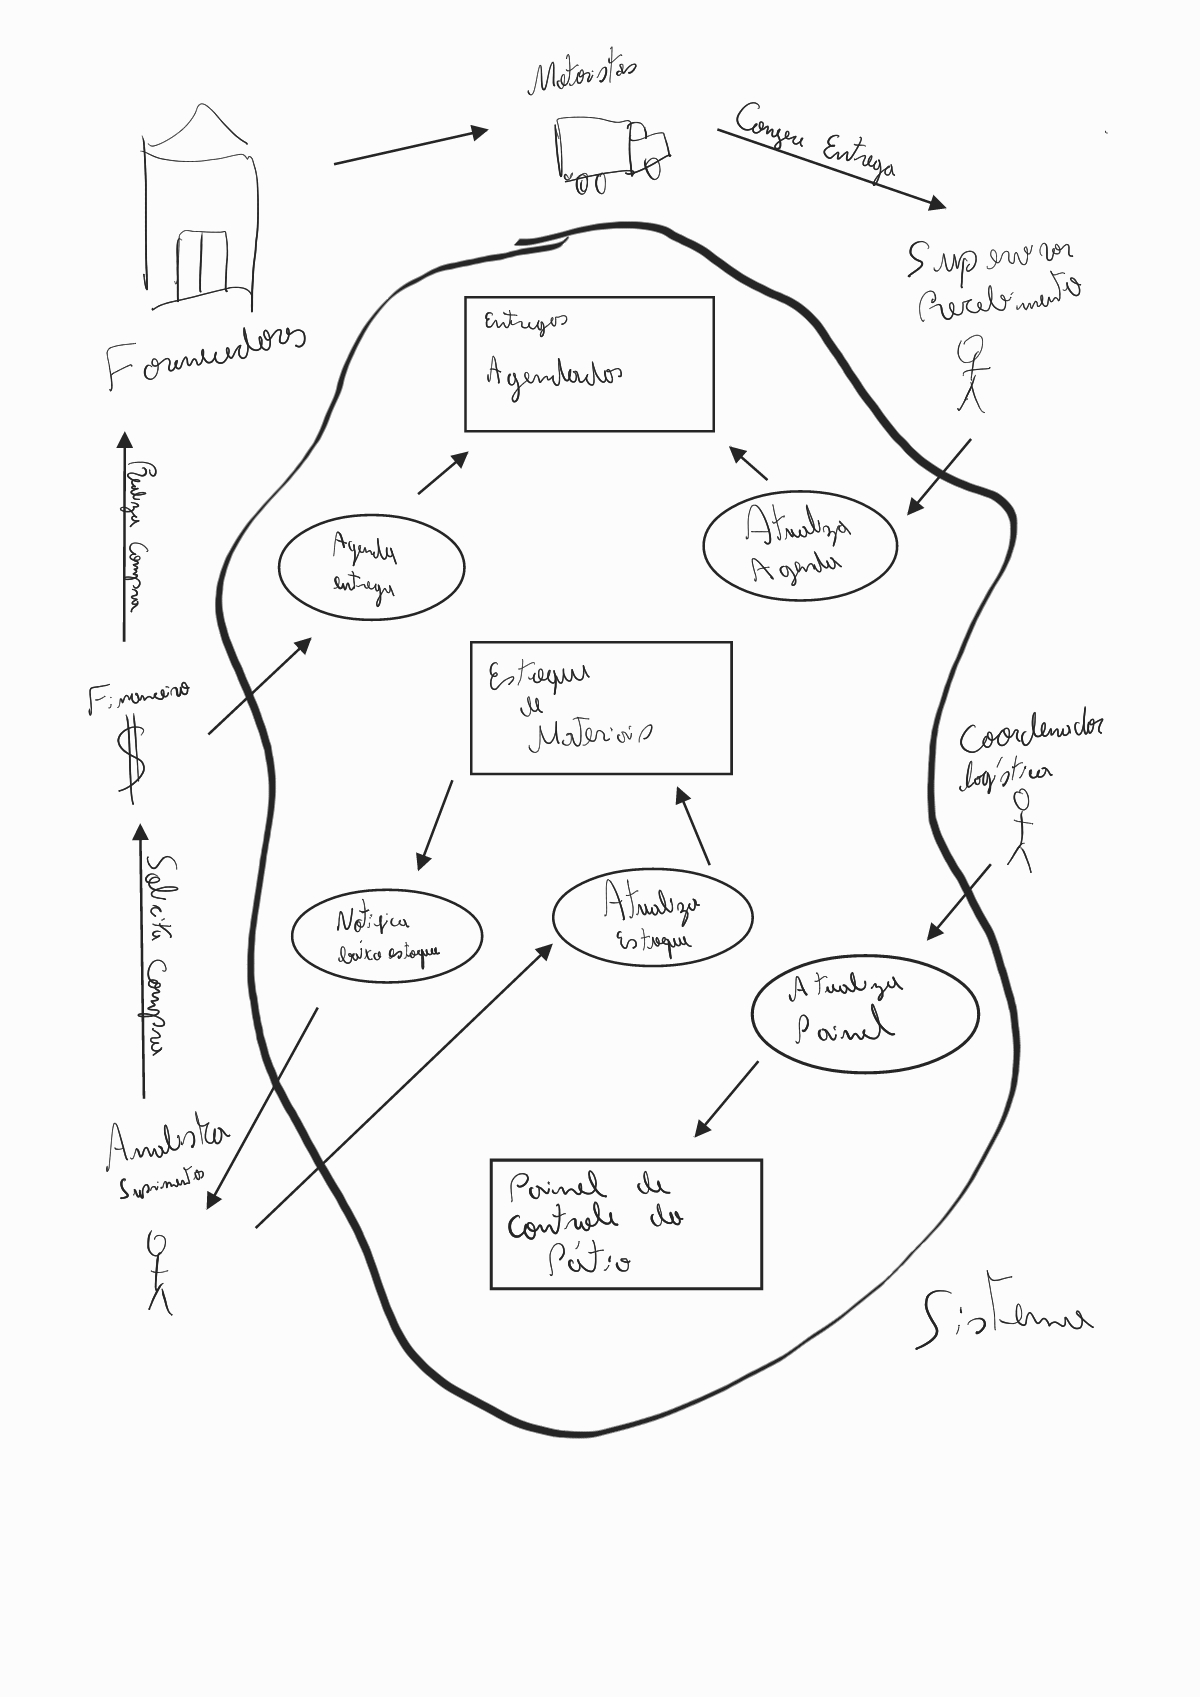
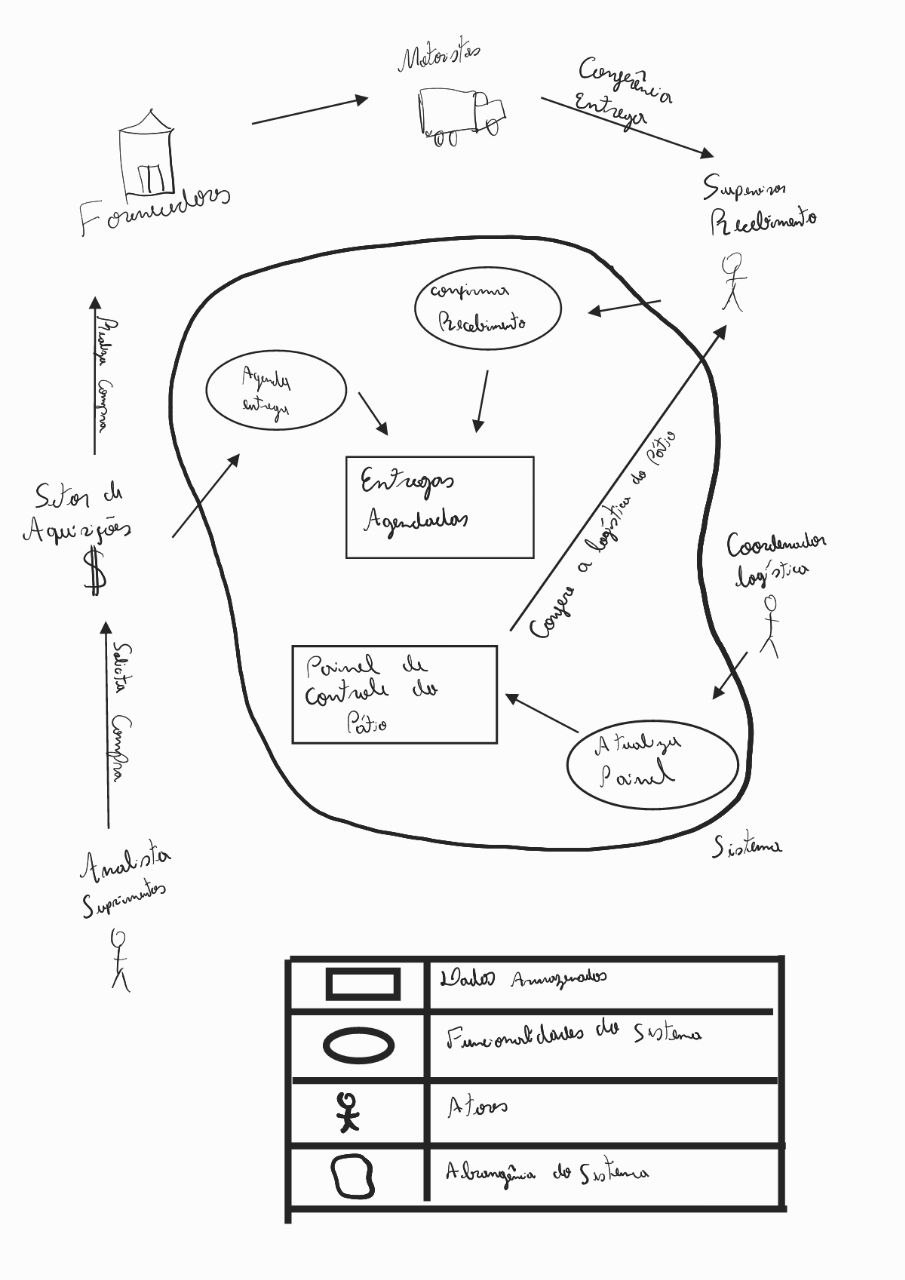
atualização semi-final da documentação

diff --git a/docs/index.html b/docs/index.html
@@ -15,8 +15,8 @@
   <div id="app"></div>
   <script>
     window.$docsify = {
-      name: '',
-      repo: '',
+      name: 'Case Funcional V360',
+      repo: 'https://github.com/Caiomesvie/CaseFuncionalV360',
       loadSidebar: true
     }
   </script>

diff --git a/docs/backlog.md b/docs/backlog.md
@@ -1,0 +1,24 @@
+# Backlog do produto
+
+## Introdução
+
+O backlog consiste na divisão das tarefas a serem realizadas e requisitos a serem atendidos em blocos temáticos, facilitando assim a distribuição das tarefas e compreensão dos devs a respeito das metas a serem atingidas
+
+O backlog, neste caso de elicitação, será adptado para o escopo do projeto reduzido, uma vez que ele é preenchido por histórias de usuários que devem ser validadas durante o desenvolvimento, mas neste projeto ele conterá os requisitos de forma direta para melhor compreensão e consulta.
+
+
+## Backlog
+
+<center>
+
+Tabela 1: Backlog do produto
+
+|Épico|Requisitos envolvidos|
+|-|-|
+|Épico de Dados | - RQ12: Cada entrega deve ter um painel com seus dados de entrega e compra <br> - RQ13: A aplicação deve ter uma página de registros de novas entregas <br> - RQ14: As entregas novas devem ir de forma automatizada para a agenda <br> - RQ15: A aplicação deve ter um banco de dados com os dados de cada entrega registrada <br> - RQ16: A aplicação deve ter um filtro de pesquisa para entregas <br> - RQ017: As entregas devem possuir um identificador único para facilitar buscas <br>|
+|Épico da Agenda| - RQ01: A aplicação deve ter uma agenda com os dados da entrega, data e hora, em formato de tabela  <br> - RQ02: A agenda deve ter um filtro com 4 parâmetros: dia, semana, mês e ano <br> - RQ03: A agenda deve ter uma notificaçãp de problemas com a entrega <br> - RQ04: As entregas devem apresentar um status, sendo eles: Falha, em trânsito, entregue <br> - RQ05: Cada compra nova realizada deve ter um sinal de ênfase indicando que ela não foi vizualizada pelo usuário <br> - RQ06: A aplicação deve ter uma opção de Reportar problemas com entregas que possam levar a alteração de logísitica <br> |
+|Épico do Mapa das docas| - RQ07: A aplicação deve ter um painel de controle para se organizar o pátio das docas <br> - RQ08: No painel deve ter um mapa das docas interativo onde é possível vizualizar o cronograma de uma doca específica <br> - RQ09: Abaixo do painel deve haver as próximas entregas do dia <br> - RQ10: Dentro do painel deve se ter a função de atribuir uma entrega a uma doca <br> - RQ11: As entregas concluídas devem não aparecer mais no cronograma da doca, apenas as não entregues <br> |
+|Épico de User Experience | - RQ18: As funcionalidades devem ser liberadas aos usuários segundo sua matrícula e setor <br> - RQ19: A aplicação deve ter um login para os usuários da empresa <br> - RQ20: A aplicação deve ser responsiva, tanto mobile quanto desktop <br> - RQ21: A aplicação deve ser web para facilitar implementação <br> - RQ22: A aplicação deve ter modo de contraste <br> - RQ23: A aplicação deve ter a opção de recuperar senha<br> |
+
+
+</center>

diff --git a/docs/Requisitos.md b/docs/Requisitos.md
@@ -1,0 +1,44 @@
+# Requisitos coletados
+
+## Introdução
+
+Neste documento estão os requisitos elicitados levando em conta o relato dos usuários e suas necessidades. Os requisitos todos possuem um identificador para facilitar sua rastreabilidade ao longo do processo de desenvolvimento para uma possível dúvida ou problema.
+
+## Requisitos
+
+Segue abaixo a tabela com os requisitos coletados. Para vias de simplificação, eles não foram separados em funcionais e não-funcionais.
+
+<center>
+
+Tabela 1: Requisitos Elicitados.
+
+|Identificador|Descrição do Requisito|
+|-|-|
+|RQ01| A aplicação deve ter uma agenda com os dados da entrega, data e hora, em formato de tabela|
+|RQ02| A agenda deve ter um filtro com 4 parâmetros: dia, semana, mês e ano|
+|RQ03| A agenda deve ter uma notificaçãp de problemas com a entrega|
+|RQ04| As entregas devem apresentar um status, sendo eles: Falha, em trânsito, entregue|
+|RQ05| Cada compra nova realizada deve ter um sinal de ênfase indicando que ela não foi vizualizada pelo usuário|
+|RQ06| A aplicação deve ter uma opção de Reportar problemas com entregas que possam levar a alteração de logísitica |
+|RQ07| A aplicação deve ter um painel de controle para se organizar o pátio das docas|
+|RQ08| No painel deve ter um mapa das docas interativo onde é possível vizualizar o cronograma de uma doca específica|
+|RQ09| Abaixo do painel deve haver as próximas entregas do dia|
+|RQ10| Dentro do painel deve se ter a função de atribuir uma entrega a uma doca|
+|RQ11| As entregas concluídas devem não aparecer mais no cronograma da doca, apenas as não entregues|
+|RQ12| Cada entrega deve ter um painel com seus dados de entrega e compra|
+|RQ13| A aplicação deve ter uma página de registros de novas entregas|
+|RQ14| As entregas novas devem ir de forma automatizada para a agenda|
+|RQ15| A aplicação deve ter um banco de dados com os dados de cada entrega registrada|
+|RQ16| A aplicação deve ter um filtro de pesquisa para entregas|
+|RQ17| As entregas devem possuir um identificador único para facilitar buscas|
+|RQ18| As funcionalidades devem ser liberadas aos usuários segundo sua matrícula e setor|
+|RQ19| A aplicação deve ter um login para os usuários da empresa|
+|RQ20| A aplicação deve ser responsiva, tanto mobile quanto desktop|
+|RQ21| A aplicação deve ser web para facilitar implementação|
+|RQ22| A aplicação deve ter modo de contraste |
+|RQ23| A aplicação deve ter a opção de recuperar senha |
+
+
+
+
+</center>

diff --git a/docs/prototipo.md b/docs/prototipo.md
@@ -1,0 +1,19 @@
+# Protótipo 
+
+## Introdução
+
+Este protótipo foi feito tanto como um modelo de validação dos requisitos elicitados, quanto para ajudar na elicitação como forma de análise prática dos objetivos do aplicativo requisitado pelo cliente
+
+Tendo em vista o escopo limitado do projeto e o tempo de produção, o protótipo tem suas limitações de funcionlidade, tendo um caráter mais visual e de uso para testes.
+
+## O protótipo
+ 
+ O protótipo foi concebido na ferramenta [Figma](https://www.figma.com). 
+ Seus principais objetivos foram :
+ * Criação de uma interface para gerar ideias de funcionalidades
+ * Gerar uma ideia visual do problema enfrentado pelo cliente
+ * testar 6 fluxos de trabalho: <br> - Consultar dados de uma entrega <br>- Manipular o mapa das docas <br>- Atribuir uma doca a uma entrega <br>- Confirmar uma entrega recém-chegada <br>- Manipular o modelo de Agenda das entregas <br>- Realizar cadastro de uma nova entrega 
+
+ Caso deseje testar os fluxos de trabalho citados acima, basta clicar [AQUI](https://www.figma.com/proto/svghV8dPE6hxfmlQhbtOUT/Controle-de-Entregas?page-id=0%3A1&node-id=8-297&node-type=canvas&viewport=600%2C286%2C0.18&t=Tx6bxq1pWARazNMQ-1&scaling=min-zoom&content-scaling=fixed&starting-point-node-id=11%3A584) para ser direcionado ao protótipo funcional, mas lembre-se que os fluxos no protótipo não estão interligados, caso tente pular de uma tarefa para outra poderá ocorrer erros que acarretem na necessidade de reinicio do teste. Aperte F11 para tela cheia e uma melhor experiência de teste.
+
+<iframe style="border: 1px solid rgba(0, 0, 0, 0.1);" width="800" height="600" src="https://embed.figma.com/design/svghV8dPE6hxfmlQhbtOUT/Controle-de-Entregas?node-id=0-1&embed-host=share" allowfullscreen></iframe>

diff --git a/docs/_sidebar.md b/docs/_sidebar.md
@@ -1,9 +1,7 @@
 
 * [Home](/) 
 * [Rich Picture](/RichPicture.md)
-* [Cenários](/Cenarios.md)
+* [Protótipo](/prototipo.md)
 * [Requisitos elicitados](/Requisitos.md)
 * [Backlog do produto](/backlog.md)
-* [Histórias de usuário](/historias.md)
 * [Macrocronograma de implementação](/macrocrono.md) 
-* [Protótipo](/prototipo.md)

diff --git a/docs/macrocrono.md b/docs/macrocrono.md
@@ -1,0 +1,6 @@
+# Macrocronograma de implementação
+
+## Introdução
+
+
+## O Macrocronograma
